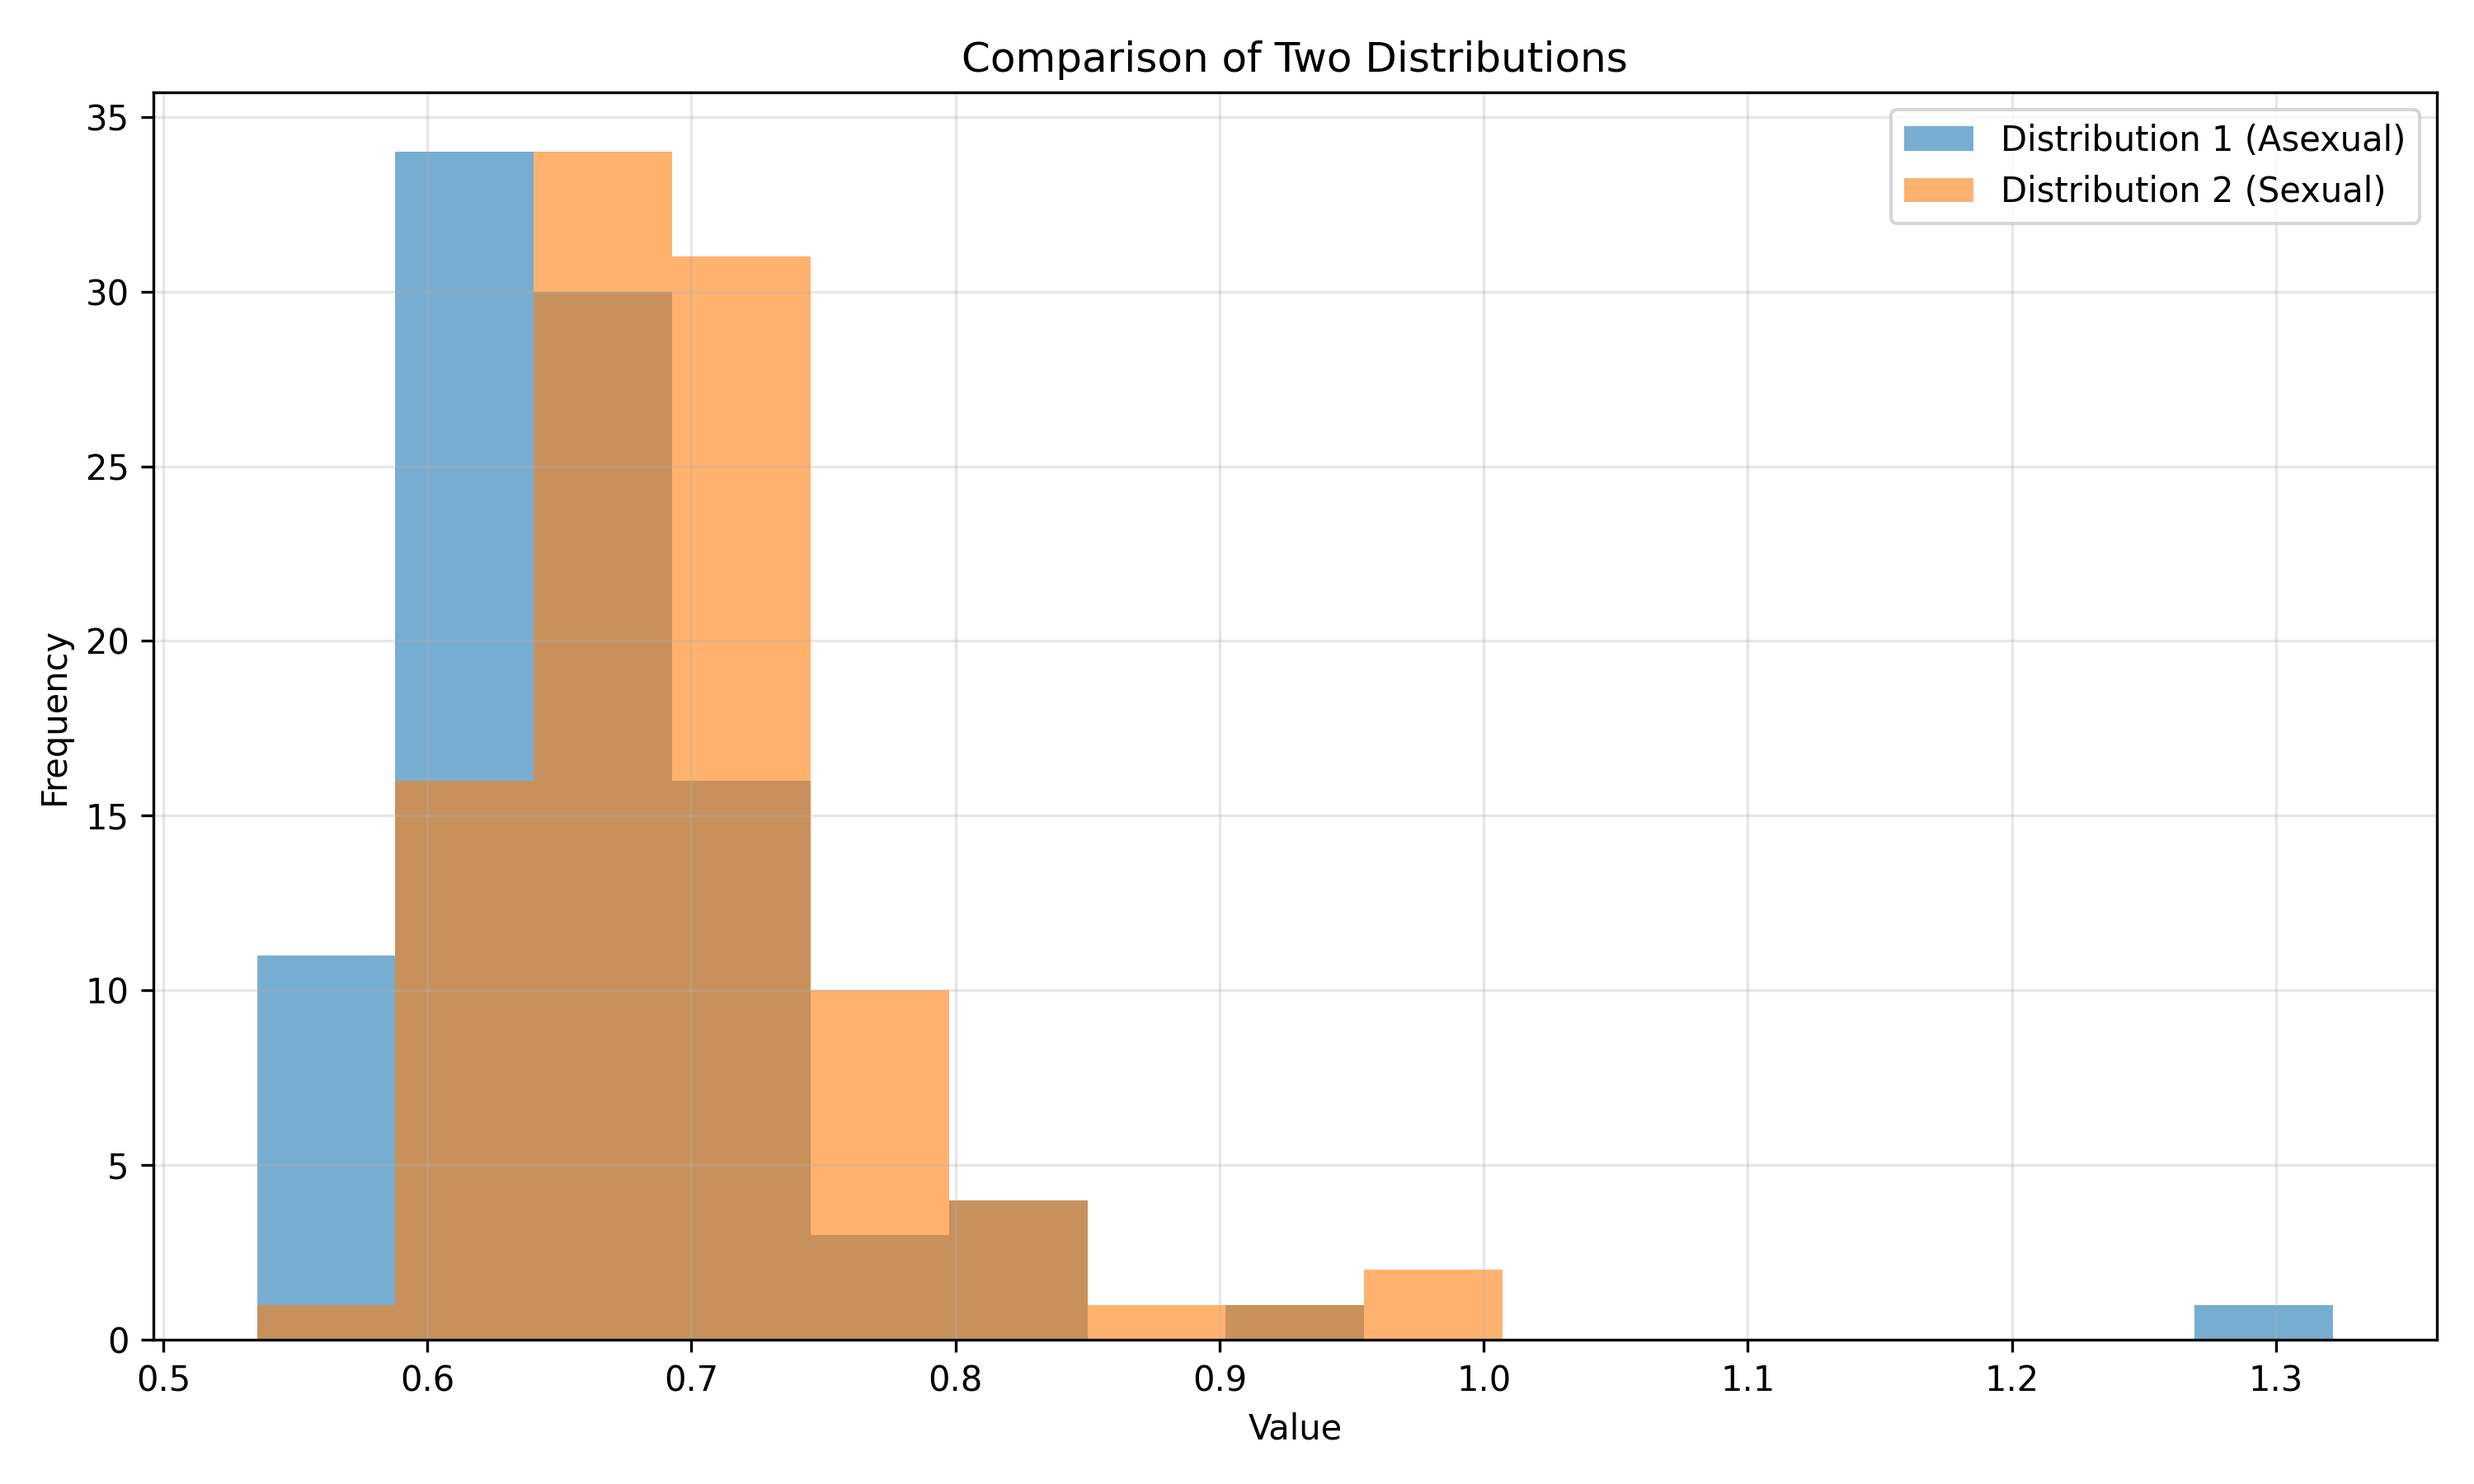
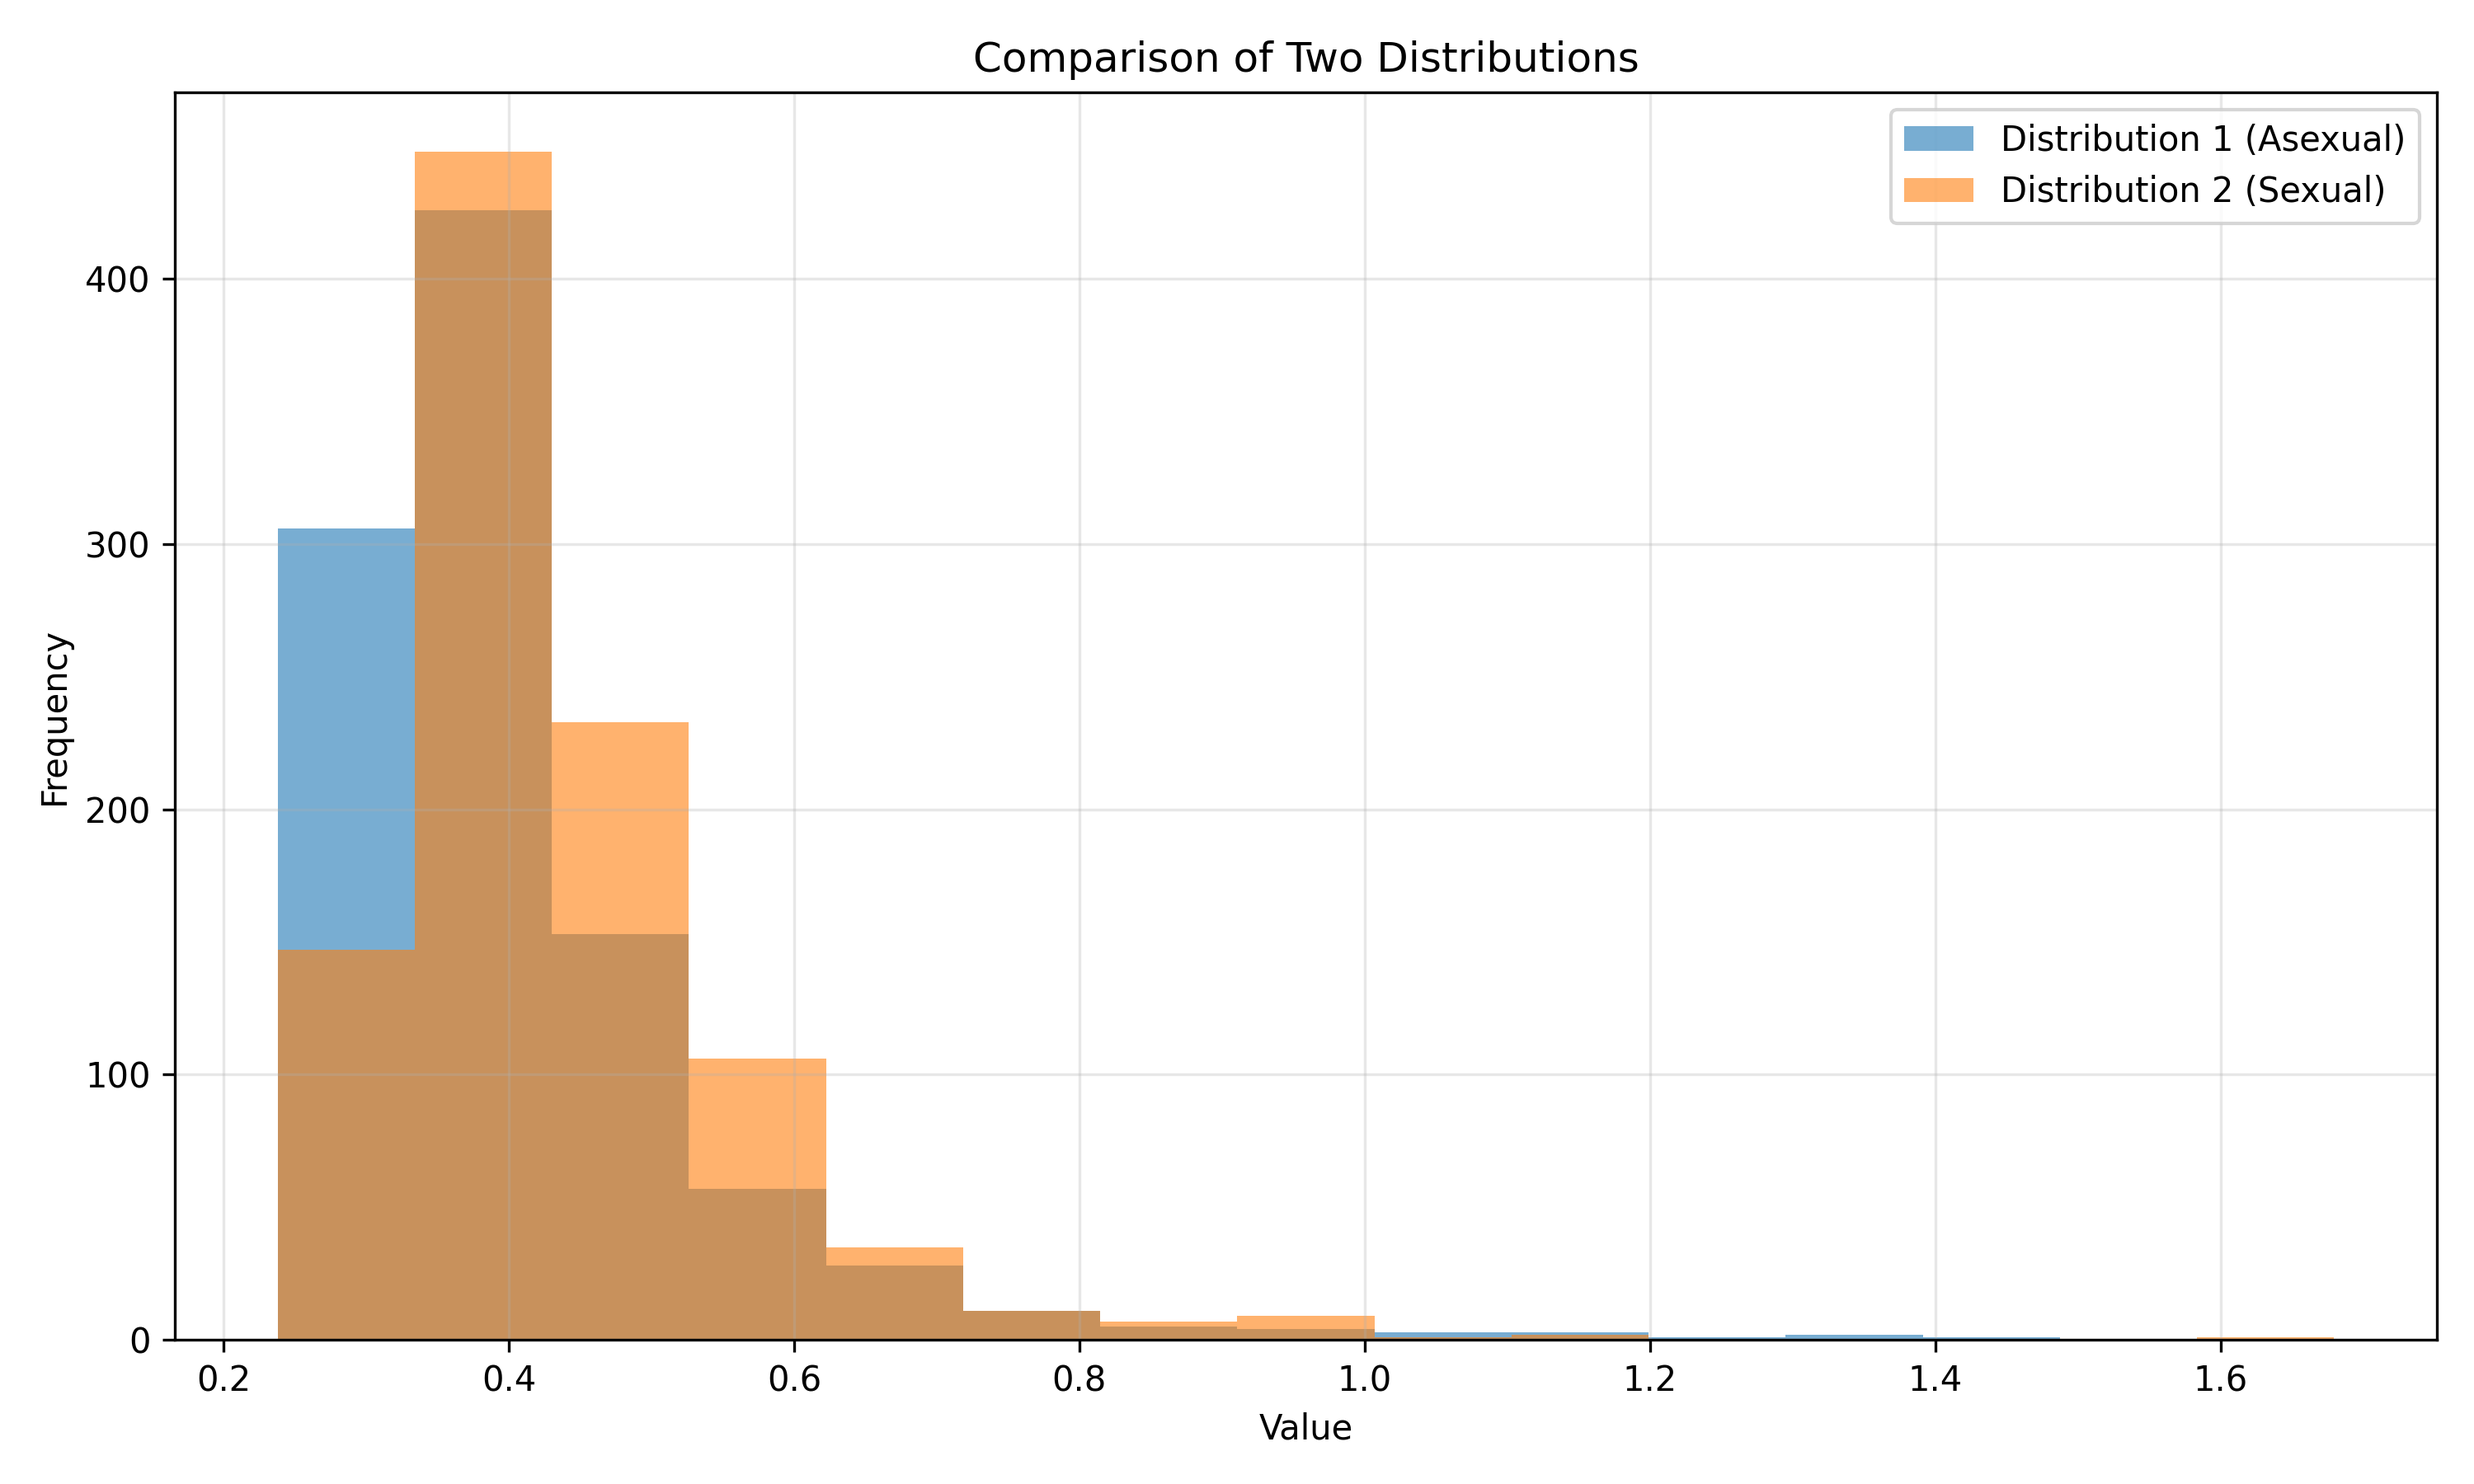
placehodler formating fix

diff --git a/README.md b/README.md
@@ -173,7 +173,7 @@ OPTIONALLY: If limited time or computing power prohibit the running of many simu
 The files written by the above commands can be used to generate the figures in the paper when they are passed into the Python script `figure_maker.py` using the following syntax:
 
 ```bash
-python figure_maker.py --sexual_data <data from sexual sim> --asexual_data <data from asexual sim> --output <desired output location>
+python figure_maker.py --sexual_data <SEXUAL_DATA_FILE> --asexual_data <ASEXUAL_DATA_FILE> --output <OUTPUT_PNG>
 ```
 
 Suggested command:
@@ -189,7 +189,7 @@ This will produce an average fitness-over-time line plot alongside a boxplot for
 Finally, feed the data to the statistical testing script:
 
 ```bash
-python stat_analysis.py --asexual_data <input data file from asexual sim> --sexual_data <input data file from sexual sim> --output <output file location for a distribution visualization plot>
+python stat_analysis.py --asexual_data <ASEXUAL_DATA_FILE> --sexual_data <SEXUAL_DATA_FILE> --output <DISTRO_PNG>
 ```
 
 Suggested command:
